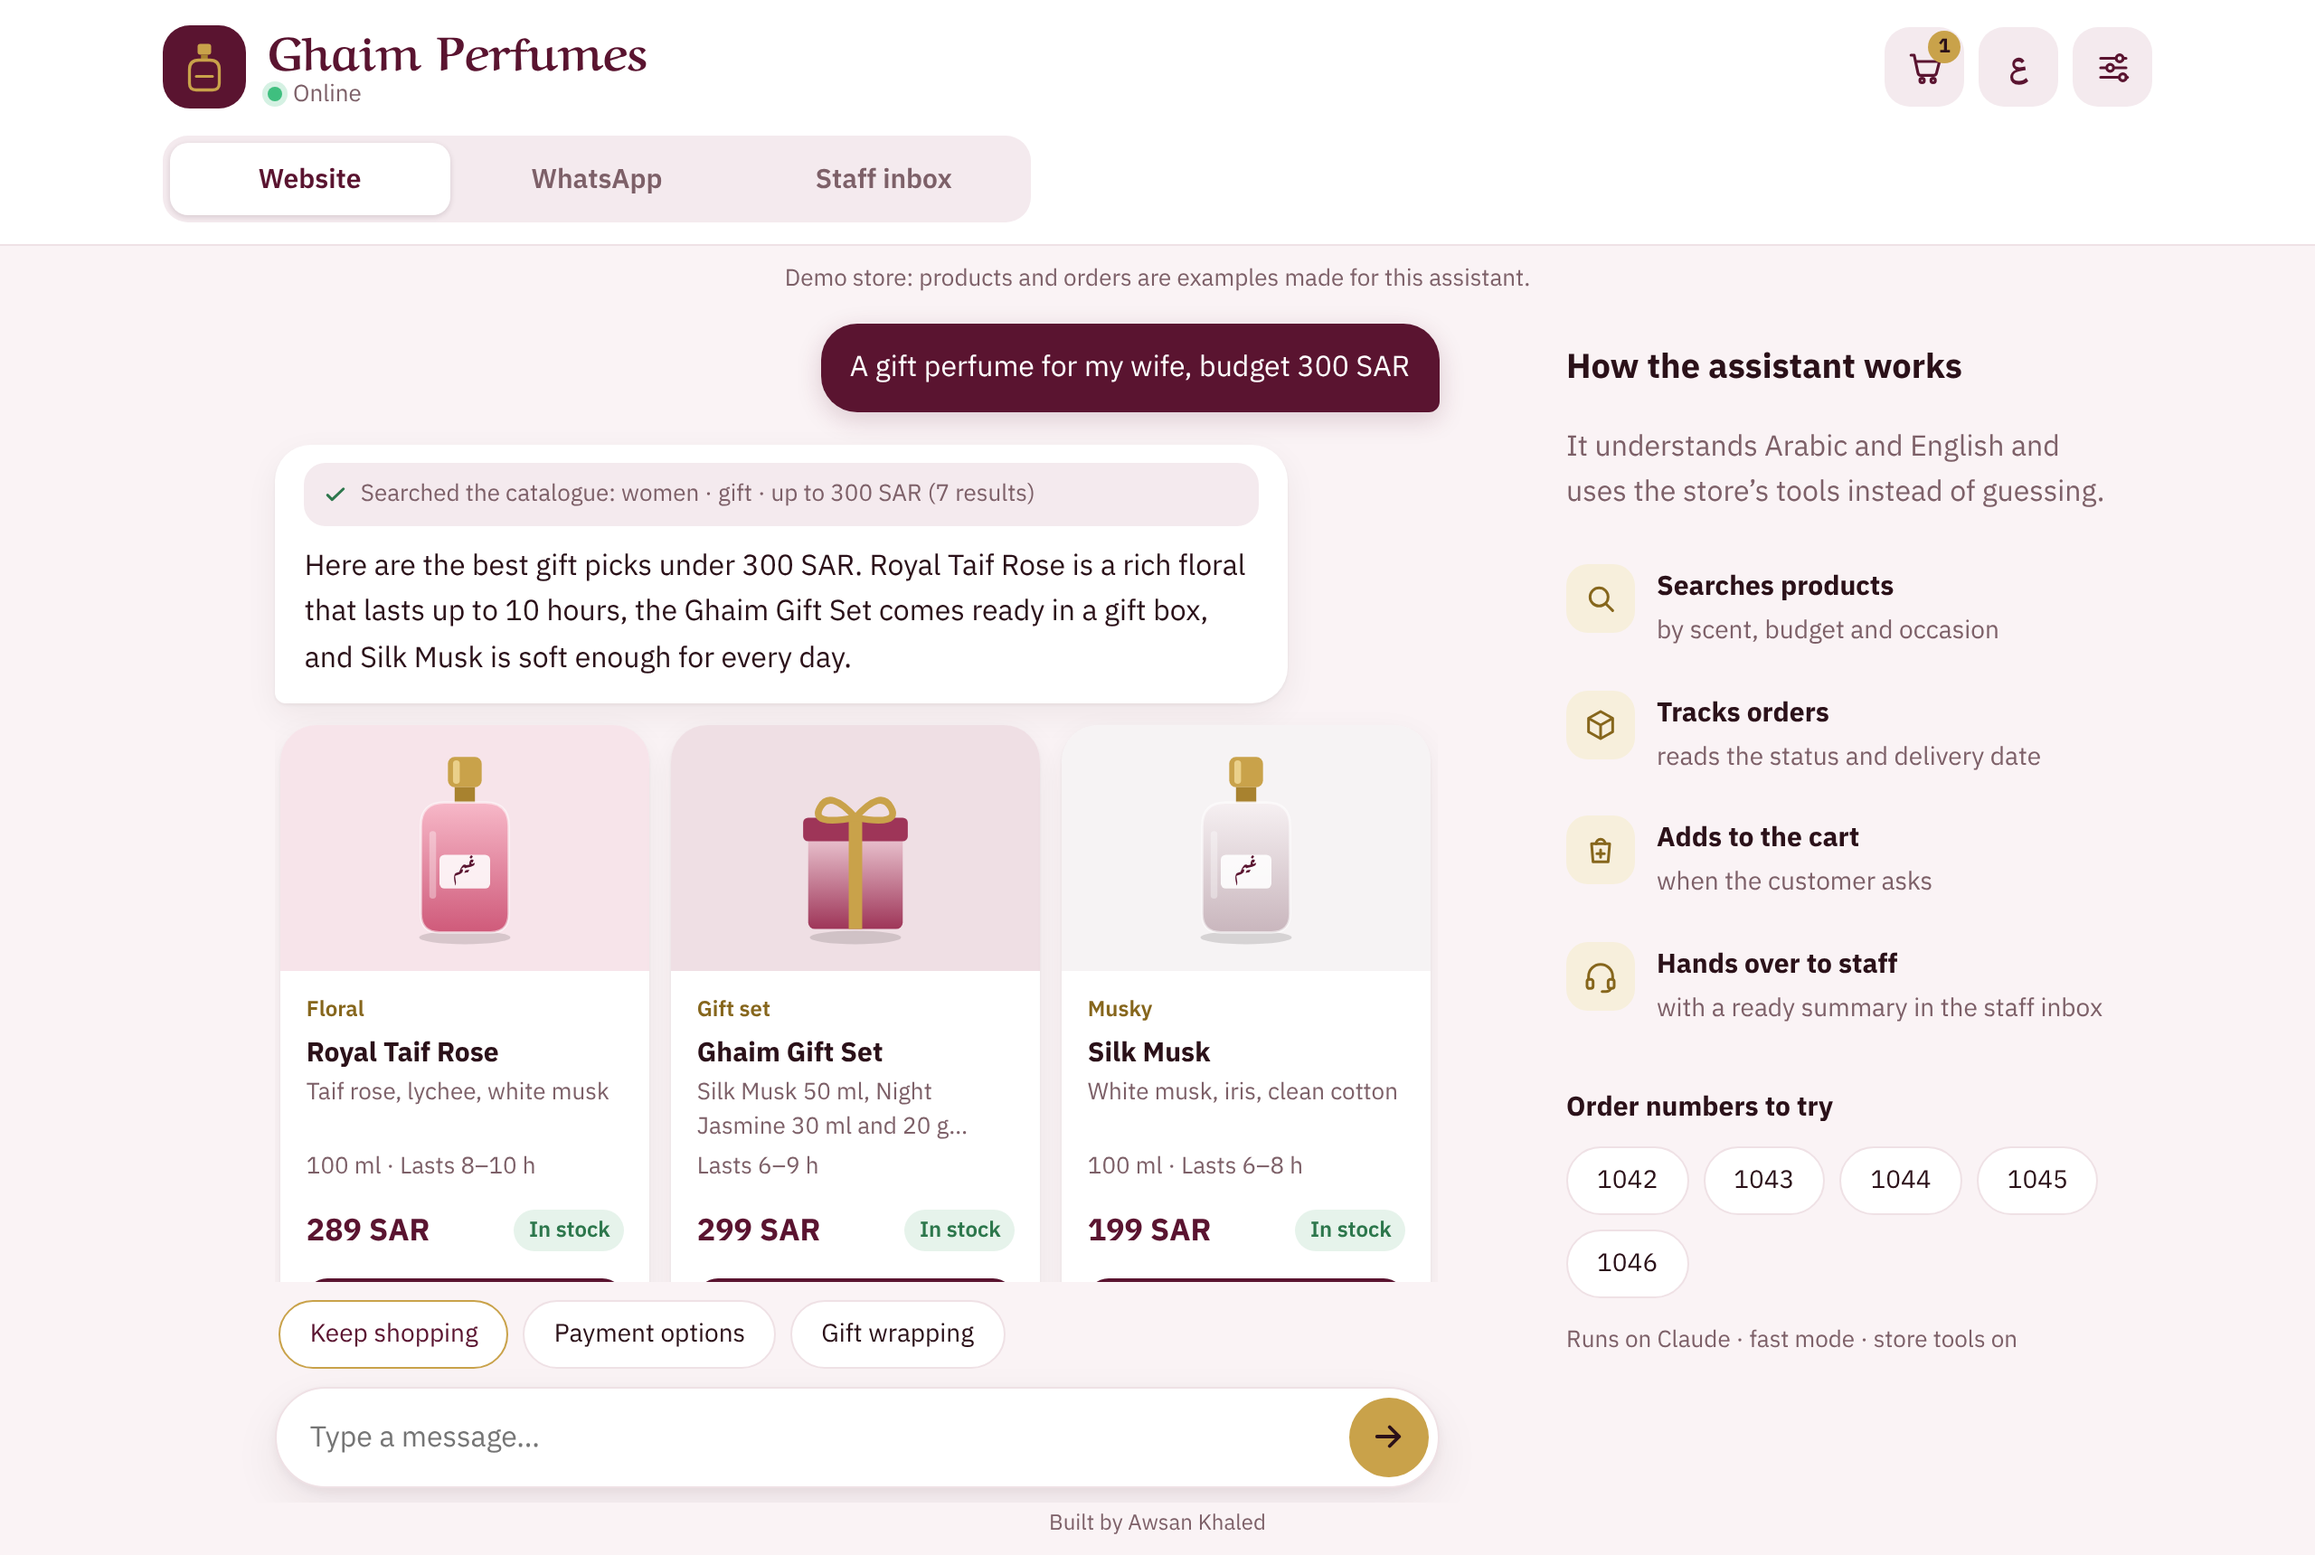
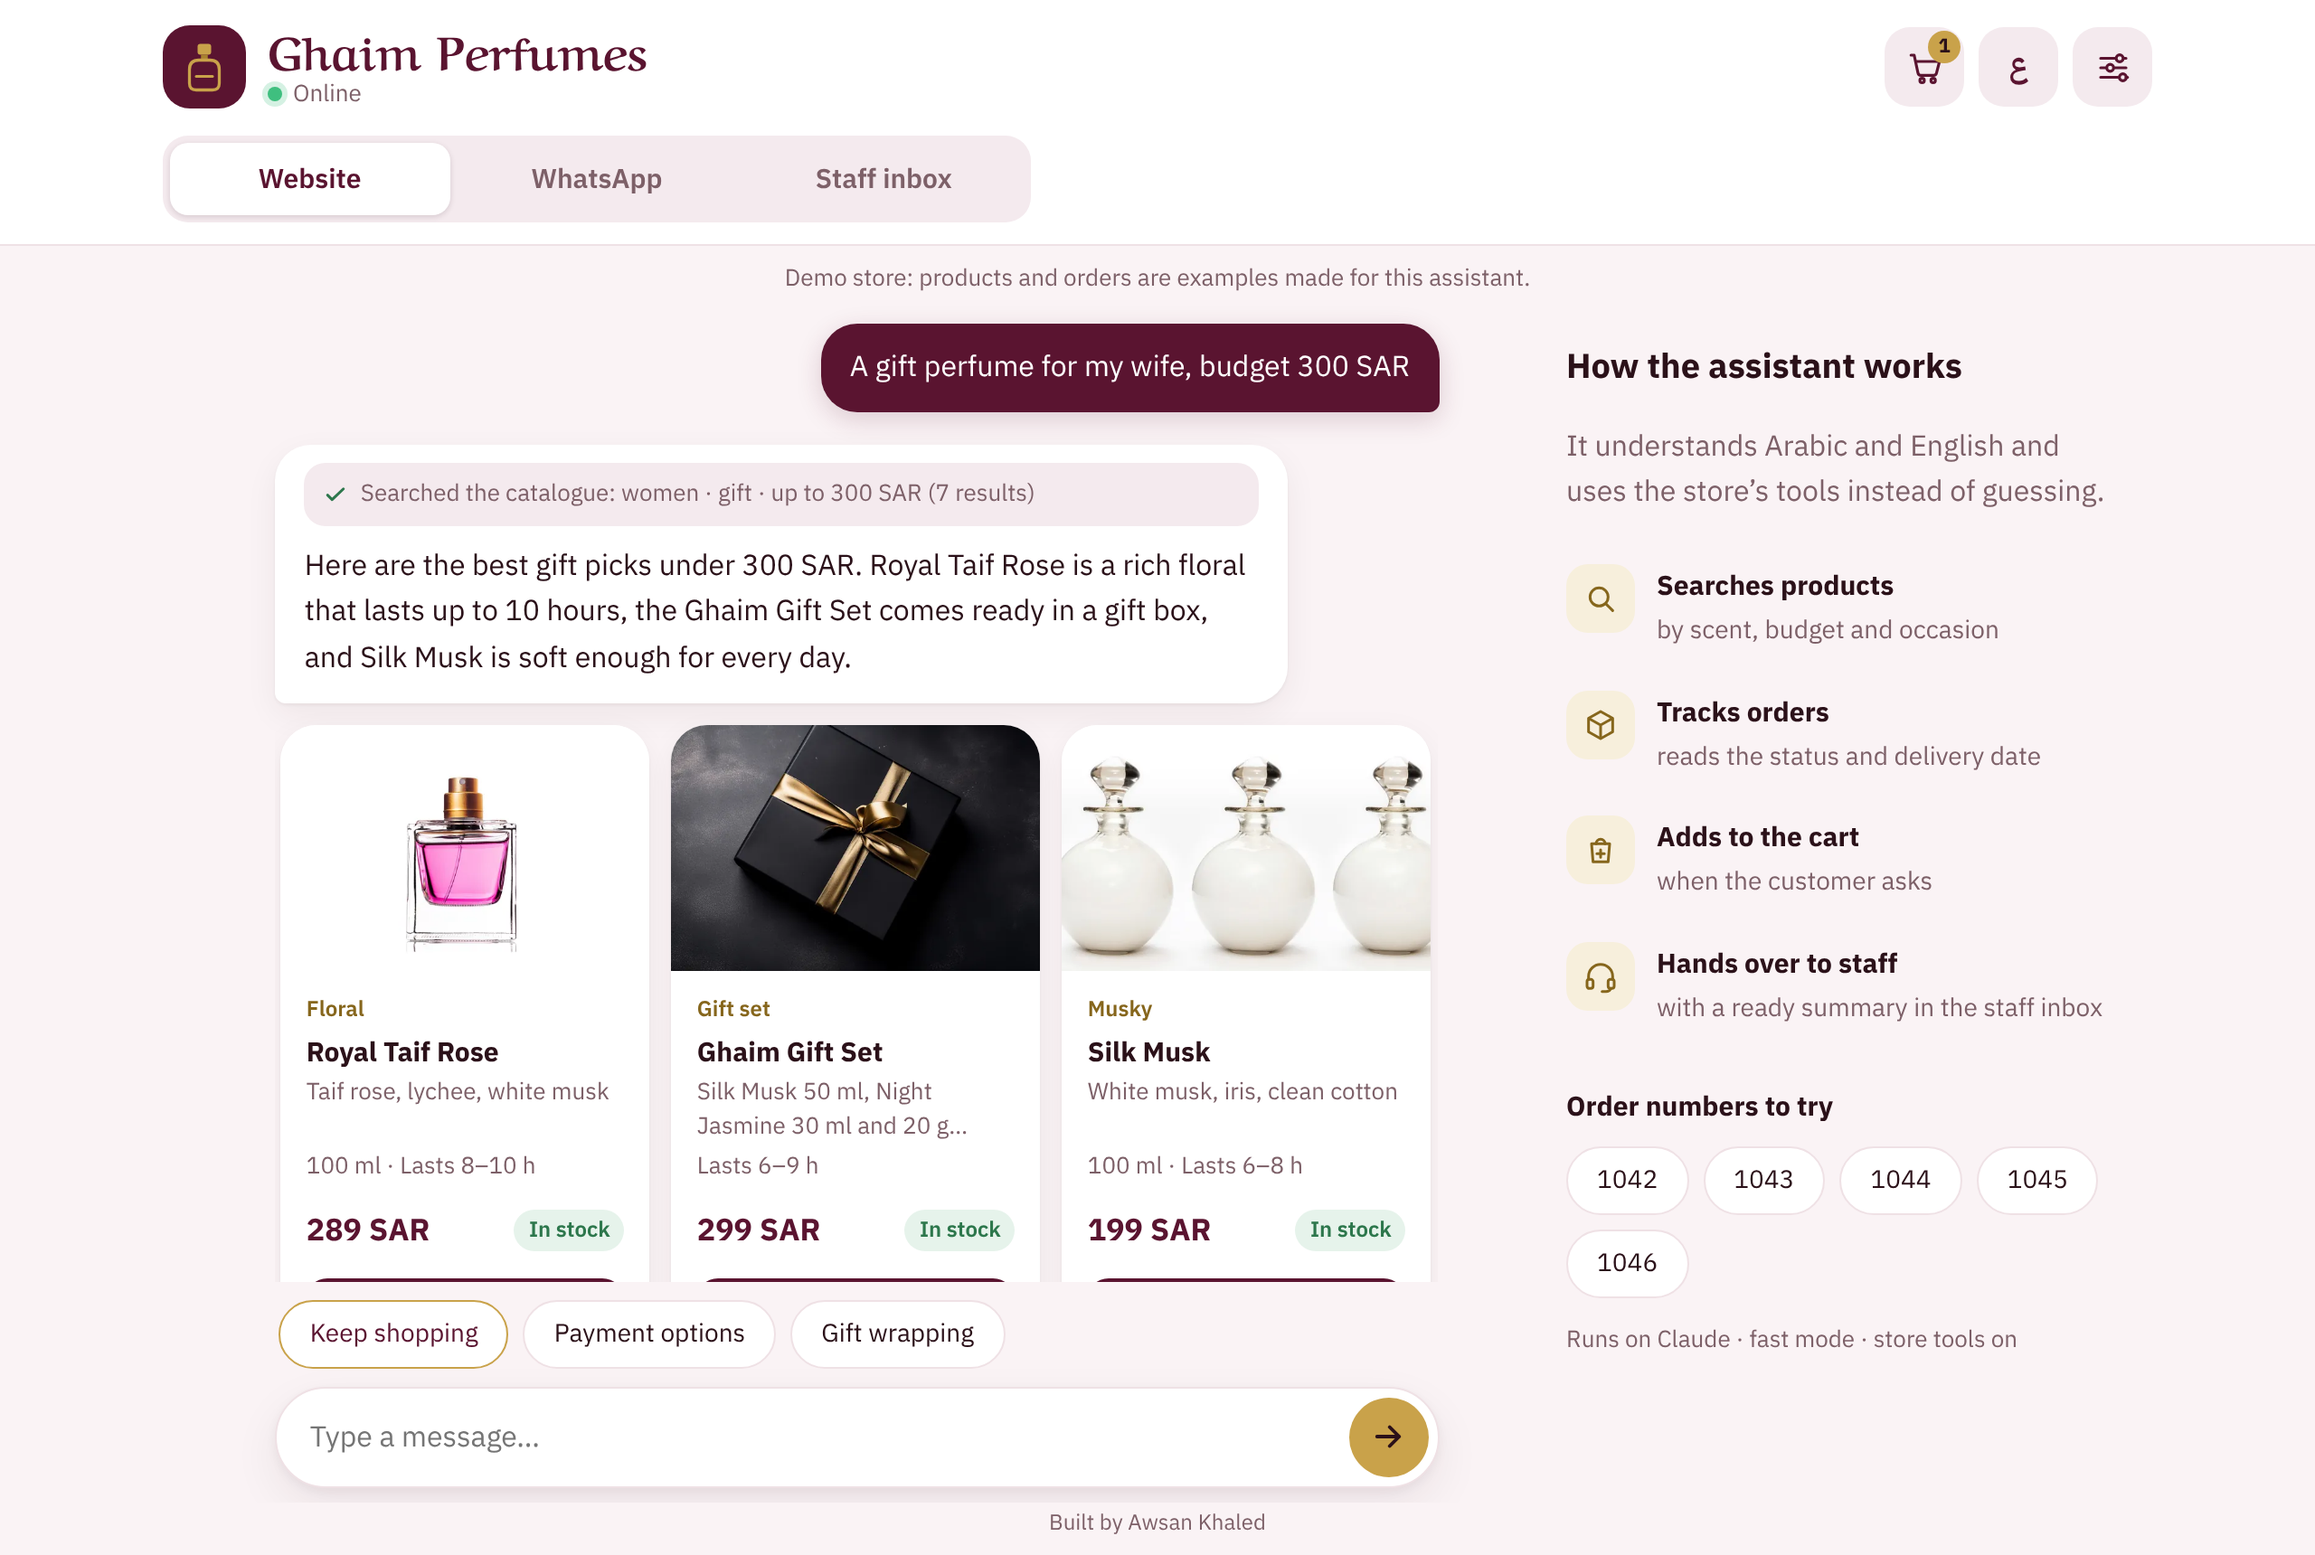
Show real photos on the product cards
- Add 15 product photos (600x400 WebP) in assets/products: real CC0
  photographs from Openverse with no brand names or logos, cropped to
  the 3:2 card picture; four reuse one bottle shot with a recoloured
  liquid. Sources and changes are listed in assets/products/CREDITS.md.
- Products get an "img" field; the card shows the photo (lazy-loaded)
  and keeps the drawn bottle for a product without one. The photo path
  is not sent to Claude.
- Tests: the smoke test checks that every product photo exists, the
  browser check that the card photos load.
- Retake the README screenshots and the link preview image with the
  photos, and document the img field and the credits in the README.

Changed region(s): [[0.0938, 0.4622, 0.625, 0.6471], [0.5938, 0.493, 0.625, 0.5547]]

diff --git a/index.html b/index.html
@@ -96,9 +96,11 @@ main{min-height:0;width:100%;max-width:1100px;margin:0 auto;display:grid;grid-te
 .cards{display:flex;gap:12px;overflow-x:auto;padding:12px 4px 10px;scroll-snap-type:x mandatory;scrollbar-width:none}
 .pc{flex:none;width:204px;scroll-snap-align:start;background:var(--card);border-radius:20px;overflow:hidden;display:flex;flex-direction:column;box-shadow:var(--sh);transition:transform .22s ease,box-shadow .22s ease}
 .pc:hover{transform:translateY(-3px);box-shadow:0 2px 4px rgba(43,17,25,.06),0 12px 28px rgba(43,17,25,.1)}
-.ph{height:136px;display:grid;place-items:center;background:var(--c)}
+.ph{height:136px;display:grid;place-items:center;background:var(--c);overflow:hidden}
 .ph svg{height:112px;width:76px;transition:transform .3s ease}
 .pc:hover .ph svg{transform:translateY(-2px) rotate(-2deg)}
+.ph img{width:100%;height:100%;object-fit:cover;display:block;transition:transform .35s ease}
+.pc:hover .ph img{transform:scale(1.04)}
 .pb{padding:12px 14px 14px;display:flex;flex-direction:column;gap:3px;flex:1}
 .pb h4{margin:0;font-size:15px;line-height:1.35}
 .fam{font-size:12px;color:var(--goldink);font-weight:600}
@@ -491,7 +493,7 @@ function cardHTML(id,mid){
   const L=S.lang,f=FAM[p.fam];
   const meta=[p.sz?p.sz[0]+' '+T[L].unit[p.sz[1]]:'',p.hours?T[L].lasts(p.hours[0],p.hours[1]):''].filter(Boolean).join(' · ');
   const sk=p.stock===0?'<span class="sk out">'+t('out')+'</span>':p.stock<=5?'<span class="sk low">'+T[L].low(p.stock)+'</span>':'<span class="sk">'+t('inStock')+'</span>';
-  return '<div class="pc" style="--c:'+rgba(f.c[1],.16)+'"><div class="ph">'+art(p,mid+p.id)+'</div><div class="pb"><span class="fam">'+f[L]+'</span><h4>'+esc(L==='ar'?p.ar:p.en)+'</h4><div class="nt">'+esc(L==='ar'?p.notes_ar:p.notes_en)+'</div>'+(meta?'<div class="mt">'+meta+'</div>':'')+'<div class="pr"><span class="price">'+p.price+' '+t('sar')+'</span>'+sk+'</div><button type="button" class="add" data-add="'+p.id+'"'+(p.stock===0?' disabled':'')+'>'+(p.stock===0?t('soldout'):t('add'))+'</button></div></div>';
+  return '<div class="pc" style="--c:'+rgba(f.c[1],.16)+'"><div class="ph">'+(p.img?'<img src="'+esc(p.img)+'" alt="'+esc(L==='ar'?p.ar:p.en)+'" width="600" height="400" loading="lazy" decoding="async">':art(p,mid+p.id))+'</div><div class="pb"><span class="fam">'+f[L]+'</span><h4>'+esc(L==='ar'?p.ar:p.en)+'</h4><div class="nt">'+esc(L==='ar'?p.notes_ar:p.notes_en)+'</div>'+(meta?'<div class="mt">'+meta+'</div>':'')+'<div class="pr"><span class="price">'+p.price+' '+t('sar')+'</span>'+sk+'</div><button type="button" class="add" data-add="'+p.id+'"'+(p.stock===0?' disabled':'')+'>'+(p.stock===0?t('soldout'):t('add'))+'</button></div></div>';
 }
 function hoHTML(id){
   const tk=tickets.find(x=>x.id===id);if(!tk)return '';

diff --git a/tests/browser-check.js b/tests/browser-check.js
@@ -42,6 +42,8 @@ async function waitIdle(page) {
   await page.waitForFunction(() => document.querySelector('#dot').classList.contains('on'), null, { timeout: 5000 });
   ok(await page.locator('#dot.on').count() === 1, 'status dot is green after the health check');
   ok(await page.locator('#log .msg.bot').first().locator('.pc').count() === 3, 'welcome message shows 3 product cards');
+  await page.waitForFunction(() => { const imgs = [...document.querySelectorAll('#log .msg.bot .pc img')].slice(0, 3); return imgs.length === 3 && imgs.every(i => i.complete && i.naturalWidth > 0); }, null, { timeout: 5000 }).catch(() => {});
+  ok(await page.evaluate(() => { const imgs = [...document.querySelectorAll('#log .msg.bot .pc img')].slice(0, 3); return imgs.length === 3 && imgs.every(i => i.complete && i.naturalWidth > 0); }), 'product cards show their photos');
   ok(await page.getAttribute('html', 'dir') === 'rtl', 'page starts in Arabic, right to left');
 
   await page.locator('#chips .chip').first().click();   // the gift starter

diff --git a/README.md b/README.md
@@ -36,7 +36,9 @@ The same assistant runs in three tabs: the store **website**, a **WhatsApp previ
 .
 ├── index.html              the whole front end: HTML, CSS and JS in one file
 ├── favicon.svg
-├── assets/og-image.png     link preview image (Open Graph)
+├── assets/
+│   ├── og-image.png        link preview image (Open Graph)
+│   └── products/           product photos (600x400 WebP) and their credits
 ├── data/
 │   ├── products.json       catalogue: products, scent families, audiences, occasions (public)
 │   └── orders.json         sample orders, read only by the server (blocked from the web)
@@ -138,7 +140,7 @@ It runs `php -l` on every PHP file, starts the app and the mock Claude API with 
 - invalid input → 400, too many messages → 429, wrong Origin → 403, missing config or `enabled => false` → 503;
 - that the config is found above `public_html` with `open_basedir` set, that the usage log has no message text, and that the key never reaches a response.
 
-With Node and [Playwright](https://playwright.dev) installed it also runs `tests/browser-check.js`, which drives the page in headless Chromium. It checks for console errors, a reply with product cards, the cart badge, the WhatsApp tab, that the website and WhatsApp chats (and their carts) stay separate, a ticket in the staff inbox, the language switch, the busy message with its retry button and the stop button.
+With Node and [Playwright](https://playwright.dev) installed it also runs `tests/browser-check.js`, which drives the page in headless Chromium. It checks for console errors, that the product photos load, a reply with product cards, the cart badge, the WhatsApp tab, that the website and WhatsApp chats (and their carts) stay separate, a ticket in the staff inbox, the language switch, the busy message with its retry button and the stop button.
 
 ## Editing the store
 
@@ -152,9 +154,12 @@ With Node and [Playwright](https://playwright.dev) installed it also runs `tests
   - `hours`: how long it lasts, `[8, 10]`, or `null`.
   - `stock`: `0` shows "sold out", 5 or less shows "only N left".
   - `tags`: occasions, keys of `occasions`.
-- `families`: Arabic and English names, plus the two bottle colours (`c`) and bottle shape (`s`, 0 to 3) used for the card picture.
+  - `img`: the card photo, for example `assets/products/p16.webp`. Use a 3:2 picture; 600x400 WebP keeps the page light. Without `img`, the card shows a drawn bottle instead.
+- `families`: Arabic and English names, plus the two bottle colours (`c`) and bottle shape (`s`, 0 to 3) used for the drawn bottle.
 - `who` and `occasions`: labels in both languages. Their keys are also the values the search tool offers Claude.
 - `sample_orders`: the order numbers shown as "Order numbers to try" on the page.
+
+**Photos: `assets/products/`.** Real photographs under CC0 (public domain), found through Openverse, with no brand names or logos; Ghaim and its products are fictional. Sources are listed in [`assets/products/CREDITS.md`](assets/products/CREDITS.md); add a line there when you add a photo.
 
 **Orders: `data/orders.json`.** One entry per order number, for example `"1042"`.
 
@@ -165,7 +170,7 @@ With Node and [Playwright](https://playwright.dev) installed it also runs `tests
 
 **Policies and instructions: `api/lib/prompt.php`.** Shipping, payment, returns, gift wrapping and opening hours are in `GHAIM_POLICIES` at the top of the file. The rest of the assistant's instructions are in `ghaim_static_prompt()` just below.
 
-After editing, run `tests/smoke.sh`: it also checks that the JSON is valid and that every order uses known products.
+After editing, run `tests/smoke.sh`: it also checks that the JSON is valid, that every order uses known products and that every product photo exists.
 
 ## Models and costs
 

diff --git a/assets/products/CREDITS.md b/assets/products/CREDITS.md
@@ -1,0 +1,27 @@
+# Product photo credits
+
+All product photos are real photographs released under
+[CC0 1.0](https://creativecommons.org/publicdomain/zero/1.0/) (public domain): free to use and edit,
+no attribution required. They are credited here anyway. None of them shows a brand name or logo.
+They were found through [Openverse](https://openverse.org) and saved as 600x400 WebP (3:2, the shape
+of the card picture).
+
+Ghaim Perfumes and its products are fictional; the photos only illustrate them.
+
+| File | Product | Source | Licence | Changes |
+| --- | --- | --- | --- | --- |
+| `p01.webp` | Royal Taif Rose | [Untitled](https://www.rawpixel.com/image/5934342/photo-image-fashion-gift-white), rawpixel | CC0 1.0 | resized, padded to 3:2 |
+| `p02.webp` | Night Jasmine | [Perfume bottles white flower](https://www.rawpixel.com/image/6033727/photo-image-flower-public-domain-plant), rawpixel | CC0 1.0 | cropped |
+| `p03.webp` | Silk Musk | [Untitled](https://www.rawpixel.com/image/6070292/free-public-domain-cc0-photo), rawpixel | CC0 1.0 | cropped |
+| `p04.webp` | Moon Oud | [Untitled](https://www.rawpixel.com/image/5934342/photo-image-fashion-gift-white), rawpixel | CC0 1.0 | liquid recoloured dark brown, padded to 3:2 |
+| `p05.webp` | Desert Amber | [Perfume. Free public domain CC0](https://www.rawpixel.com/image/6033978/perfume-free-public-domain-cc0-photo), rawpixel | CC0 1.0 | cropped |
+| `p06.webp` | Sea Breeze | [Perfume glass bottles](https://www.rawpixel.com/image/6028427/photo-image-public-domain-green-glass), rawpixel | CC0 1.0 | cropped |
+| `p07.webp` | Soft Neroli | [Free essential oil image. Cosmetic](https://www.rawpixel.com/image/5910591/photo-image-flower-public-domain-free), rawpixel | CC0 1.0 | cropped |
+| `p08.webp` | Amber Vanilla | [Perfume bottles white flower](https://www.rawpixel.com/image/6033727/photo-image-flower-public-domain-plant), rawpixel | CC0 1.0 | cropped |
+| `p09.webp` | Sandalwood Hour | [Untitled](https://www.rawpixel.com/image/5934342/photo-image-fashion-gift-white), rawpixel | CC0 1.0 | liquid recoloured honey, mirrored, padded to 3:2 |
+| `p10.webp` | Pure Oud Oil | [Back side beard oil bottle](https://www.rawpixel.com/image/11524368/back-side-beard-oil-bottle), rawpixel | CC0 1.0 | cropped |
+| `p11.webp` | Bridal Bouquet | [Free home aroma image](https://www.rawpixel.com/image/5921893/photo-image-flower-public-domain-white), rawpixel | CC0 1.0 | cropped |
+| `p12.webp` | Pure White Musk | [Untitled](https://www.rawpixel.com/image/6070292/free-public-domain-cc0-photo), rawpixel | CC0 1.0 | cropped, background extended to 3:2 |
+| `p13.webp` | Ghaim Bakhoor | [Free burning incense stick image](https://www.rawpixel.com/image/5917370/image-public-domain-smoke-free), rawpixel | CC0 1.0 | cropped |
+| `p14.webp` | Ghaim Gift Set | [Gift Box](https://stocksnap.io/photo/gift-box-YZOCM3TBYT) by Altered Reality, stocksnap | CC0 1.0 | cropped |
+| `p15.webp` | Tobacco & Dates | [Untitled](https://www.rawpixel.com/image/5934342/photo-image-fashion-gift-white), rawpixel | CC0 1.0 | liquid recoloured cognac, mirrored, padded to 3:2 |
